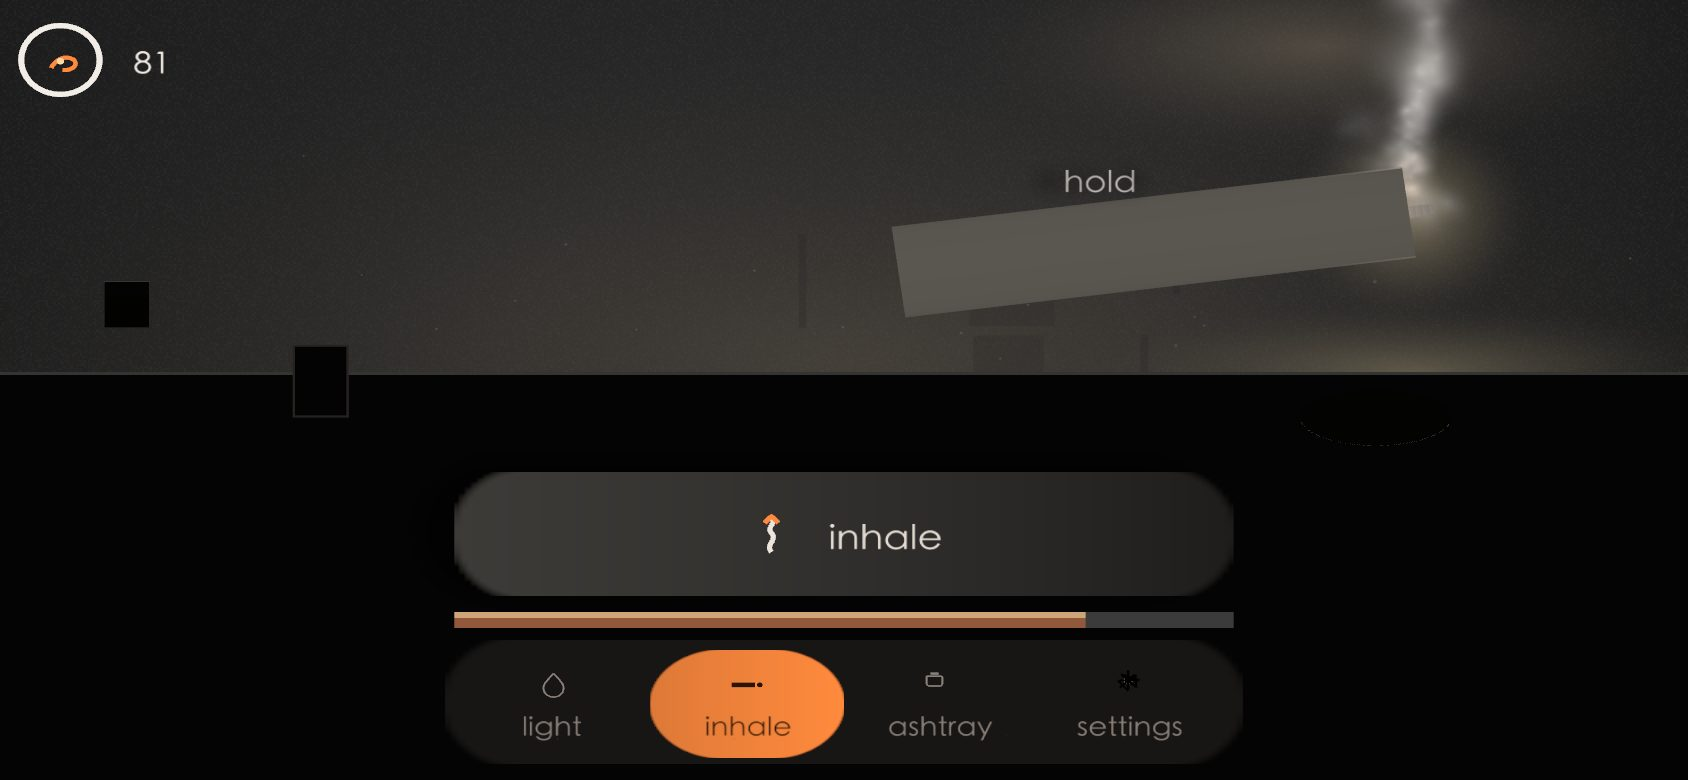
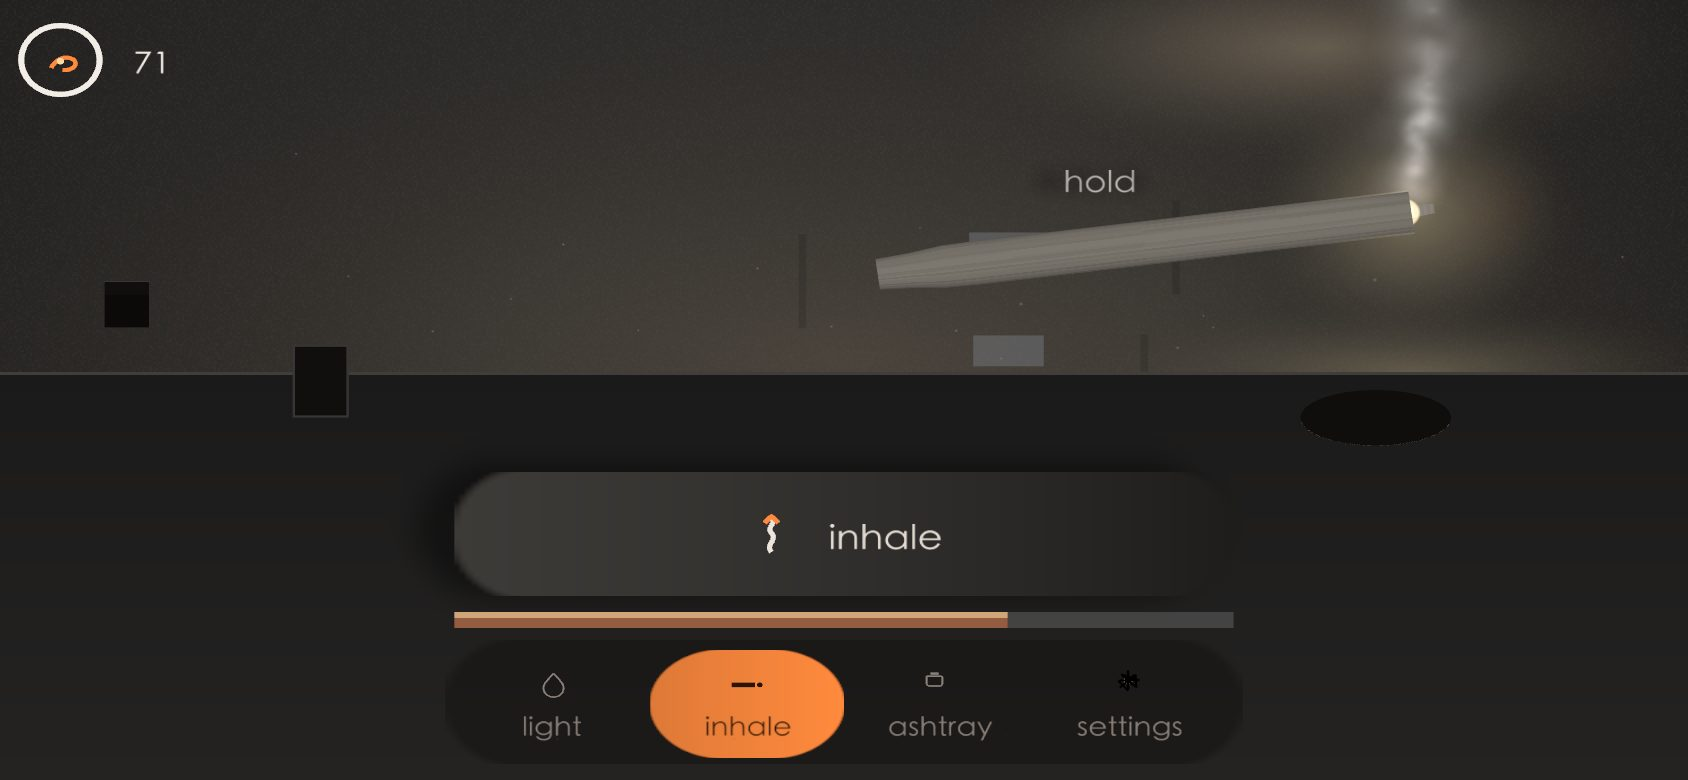
docs: 审阅记录补三处自证，README 四图按新画面重拍
- 收回一条过度声明：金属度归零只是**部分**修复。重拍的 phone-smoke 里打火机、烟盒、
  烟灰缸仍是墙前几块纯黑矩形（图上还能看到墙上那几条细线与灰短横——杂物 kind 0/1/3），
  所以「道具是黑的」这一条本轮没有解决，下一段讲的是为什么它需要一次调色板决定。
- 两把尺在**已提交构建**上复跑，把 §5 的数字从"我记得"变成"刚量到"：
  漏出尺 delta_vs_closed=0.0（scroll 0/120/300 三档），逐帧闪烁尺 90 帧、
  per-frame changed max 0 / nonzero 0 of 89、distinct placements 70 of 70。
- 记下 requestAdapter 那把错闸门的证伪过程（判据自己被自家读数抓住，是这份文档
  该有的形状）。
- 四图重拍：node tests/smoke/readme-shots.mjs http://127.0.0.1:4182/puffly/ docs/images
  （SHOT 行里 ring/alt 为空这一点留给眼睛那关：图对不对由你判，我不替你看。）

diff --git a/docs/notes/visual-review-2026-10-15.md b/docs/notes/visual-review-2026-10-15.md
@@ -1,9 +1,9 @@
 # Visual and CI review, 2026-10-15
 
-Scope: the four complaints handed in by the player (scroll area leaks, the skins panel flickers at
-the bottom, the lighter/pack/ashtray read black, the screen whitens and flickers while inhaling, the
-rod is too thick and thins when drawn), plus "is the code, the picture and the goal still the same
-document", plus the one red CI job.
+Scope: the five complaints handed in by the player (scroll area leaks above the panel, the skins panel
+flickers at the bottom, the lighter/pack/ashtray read black, the screen whitens and flickers while
+inhaling, the rod is too thick and thins when drawn), plus "is the code, the picture and the goal still
+the same document", plus the one red CI job.
 
 Everything below was measured on this machine against `apps/web/dist` built with
 `PUBLIC_BASE=/puffly/ npm run build`. Re-run commands are printed with each claim, because a number
@@ -25,10 +25,14 @@ FAIL  单口时长 leaves the rod in charge … — {"pressed":"missing", …}
 ```
 
 `missing:["close"]` is `document.querySelector('.sheet[data-open="true"] .close')` answering *null*:
-the sheet never opened. `blocked:["rail","head"]` is the same fact wearing the other sign — those two
-are `display:none` after §10's 2.6 s idle fold, so their rects are zero and their hit tests land
-anywhere else. Every FAIL after that first one reads a sheet, a row or a track that only exists while
-a sheet is open. **One cause, fifteen reds.**
+the sheet never opened. `blocked:["rail","head"]` is reported by the same evaluate for a control whose
+`elementFromPoint` is not itself — the two readings that produce it are a control that has folded to
+`display:none` (rect zero, so the probe hits whatever sits at the origin) and a control genuinely
+covered by an open panel. §10's fold is the one that fits a page that never opened a sheet, but the
+report does not carry the rect, so **which of the two it was on the runner is not measured — it is the
+shape the fold has**. Every FAIL after that first one reads a sheet, a row or a track that only exists
+while a sheet is open. **One cause, fifteen reds** — that part is not in doubt, because all fifteen
+disappear together in the local reproduction below.
 
 Reproduce (this machine has no Chrome.app and no GPU-forced runner; the flags below make the local
 page behave like the runner):
@@ -144,13 +148,19 @@ one. The shape test therefore matches on the seeded `(x, y)` plus the layer's ow
 
 ## 5. The complaints that were already repaired, and the one that is not
 
-Repaired and measured earlier in this same round, all still uncommitted here: the settings/skins panel
-leaking content outside its scroll area (strict full-containment cull plus the missing clip planes on
-`sheetSurfaces`), the flicker at the bottom of the skins list (surface pool 40 → 80, frame pool 36 →
-48, and element-keyed ownership replacing index slots), the rod's thickness and its thinning when
-drawn (`ROD_THICKNESS_SHARE`, `DIP_SHARE` in `packages/game-scene/src/props.ts`), and the props'
-metalness (no environment map exists, so `metalness > 0` only subtracts diffuse light and takes the
-lighter, pack and ashtray toward black).
+Repaired and measured earlier in this same round, now committed, each with the place to look: the
+settings/skins panel leaking content outside its scroll area (strict full-containment cull at
+`SceneStage.vue:3836` and `:3899`, plus the clip planes `sheetSurfaces` was missing while runs, frames
+and sliders all had them), the flicker at the bottom of the skins list (surface pool 80 and frame pool
+48 at `SceneStage.vue:3669-3670`, raised from 40 and 36 to the measured demand — 60 nodes inside the
+viewport wanted a plate in that panel — and ownership keyed by element rather than by index slot; 20
+cards that were not being drawn at all now are), the rod's thickness and its thinning when drawn
+(`props.ts:52` `ROD_THICKNESS_SHARE = 7.8 / 84`, `props.ts:161` `DIP_SHARE = 0.06`), and the props' metalness (there is no environment map, so `metalness > 0` only subtracts diffuse light
+and returns nothing). **That last one is a partial repair, not a fix, and the re-shot
+`docs/images/phone-smoke.jpg` is the proof**: with the metalness at zero the lighter, the pack and the
+ashtray are still flat black rectangles against a lit wall, and the wall still carries stray thin lines
+and grey dashes (clutter kinds 0/1/3). So the player's complaint 「打火机 烟盒 烟灰缸都是黑的」 stands
+after this round, and §5's next paragraph is about why.
 
 **Still open, and it is not a bug I can measure shut:** the lighter, pack and ashtray keep reading as
 dark holes because the room's *ground* is roughly twice as bright (linear) as the design's. Reaching
@@ -162,3 +172,17 @@ the prop inks (15.1 → 24.1 against a ground of 52–59.6, i.e. still a hole). 
 palette decision across the 21 rooms, which is the player's eye, not a ruler. The white-out during
 inhaling has the same root: `pool-bloom` rises 0.259 → 0.44 with the plume while §2 hides the DOM
 chrome, so the frame brightens and its darkest object goes away at the same moment.
+
+**Two rulers re-run against the committed build, to keep §5's numbers from being memory:** the leak
+acceptance (`node tests/smoke/probe-band-20261015.mjs`) reports the band above the panel identical to
+the closed-sheet band at three scroll positions — `delta_vs_closed=0.0` at scroll 0 / 120 / 300; the
+per-frame flicker acceptance (`node tests/smoke/probe-sheet-frames.mjs`) reports `frames sampled 90`,
+`per-frame changed: max 0 mean 0.00 nonzero 0 / 89`, `distinct placements 70 of 70 slots` — STABLE.
+
+**One instrument in this round was wrong and was caught by its own reading.** The frame-rate floor was
+first gated on `navigator.gpu.requestAdapter()`, on the theory that it is the runner's own GPU signal.
+The normal-path run printed the refutation: `backend=webgpu, frames 141→184 (+43 in 700 ms)` — 61 fps —
+alongside `gpuAdapter=null`. The probe could not see the adapter the app had just obtained, so the floor
+would have relaxed itself on hardware that could meet it: a silent relaxation, which is the failure mode
+this whole file is a catalogue of. The gate is now the backend the app itself chose (`webgpu` is
+positive proof of a GPU; `webgl2` proves nothing either way, and the detail line says which branch ran).
